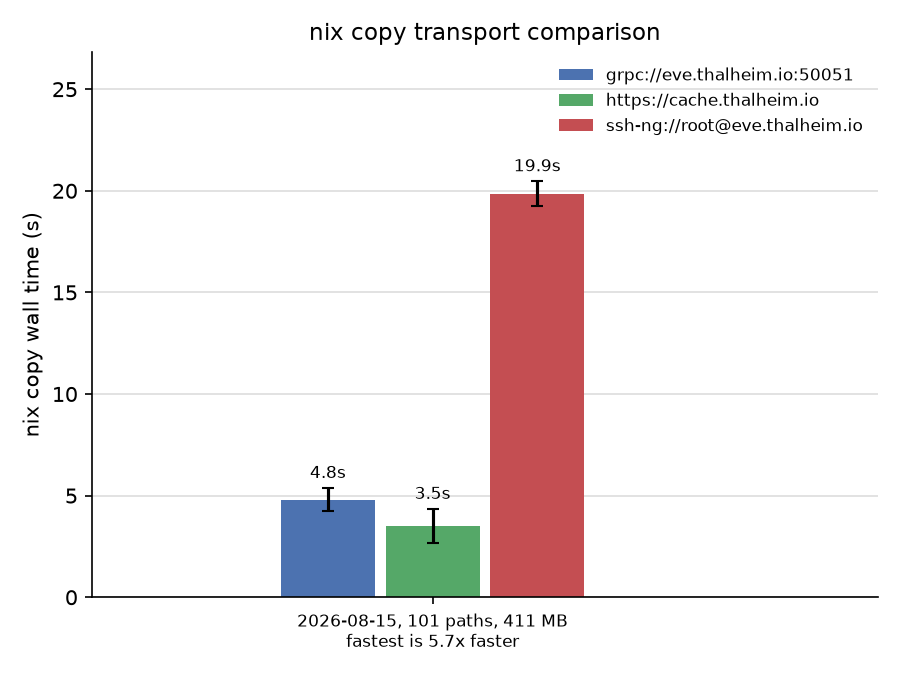
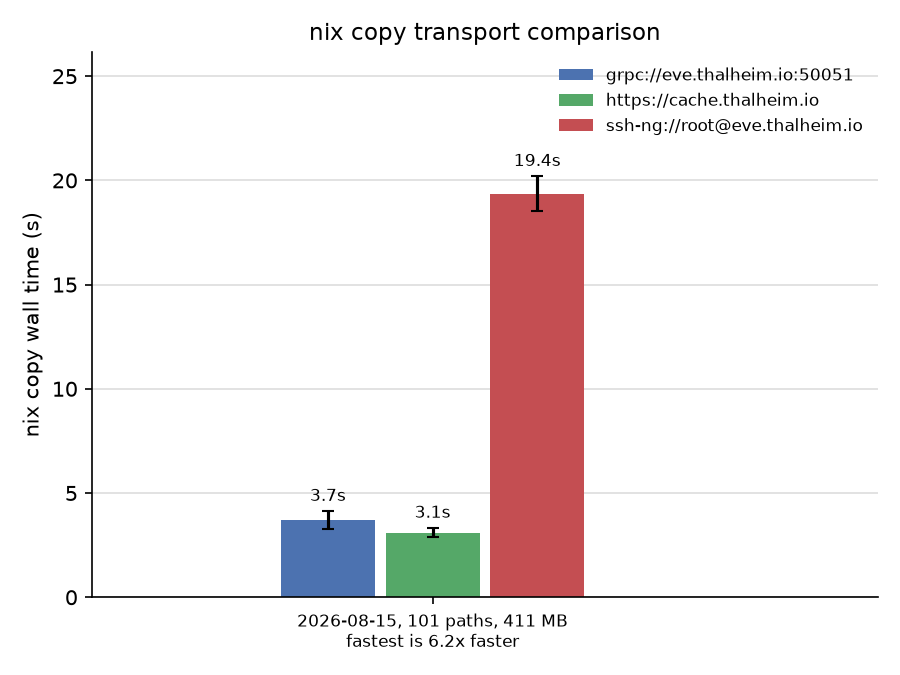
docs: refresh benchmark for FetchNars
grpc median 4.6s -> 3.6s (116 MB/s) on the 411 MB closure at 47 ms
RTT, 5.5x faster than ssh-ng and within 16% of a static binary cache.

diff --git a/README.md b/README.md
@@ -3,7 +3,7 @@
 **Status: Beta.** Safe to use but interfaces may change, so you will need to keep server/client in sync.
 
 Remote Nix store access over gRPC instead of SSH. `nix copy` over a WAN
-link is **4.3x faster than `ssh-ng://`** because round trips are hidden:
+link is **5.5x faster than `ssh-ng://`** because round trips are hidden:
 path-info queries are batched and NAR downloads are pipelined, so wall time
 is bandwidth-bound instead of latency-bound.
 
